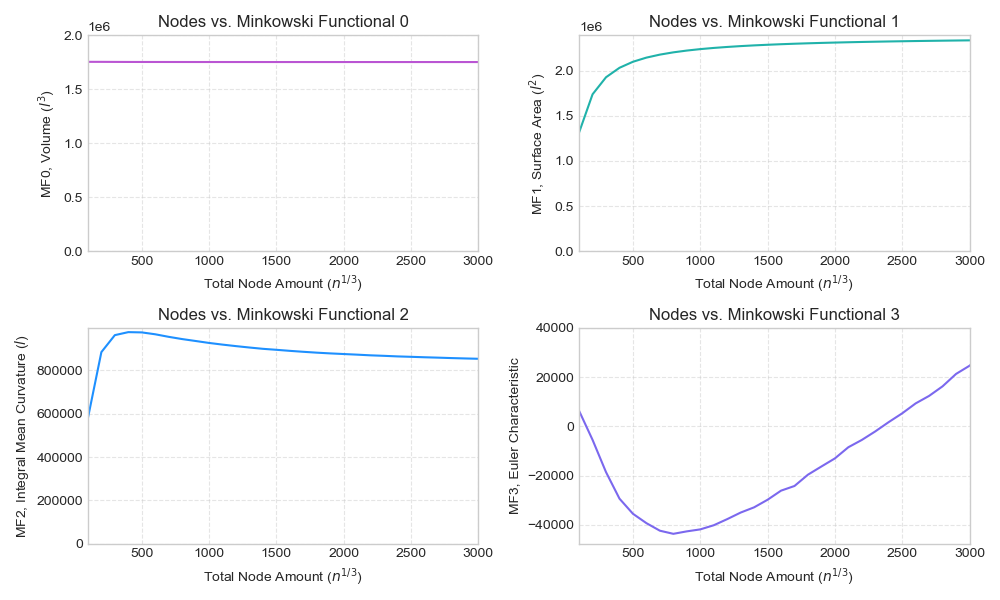
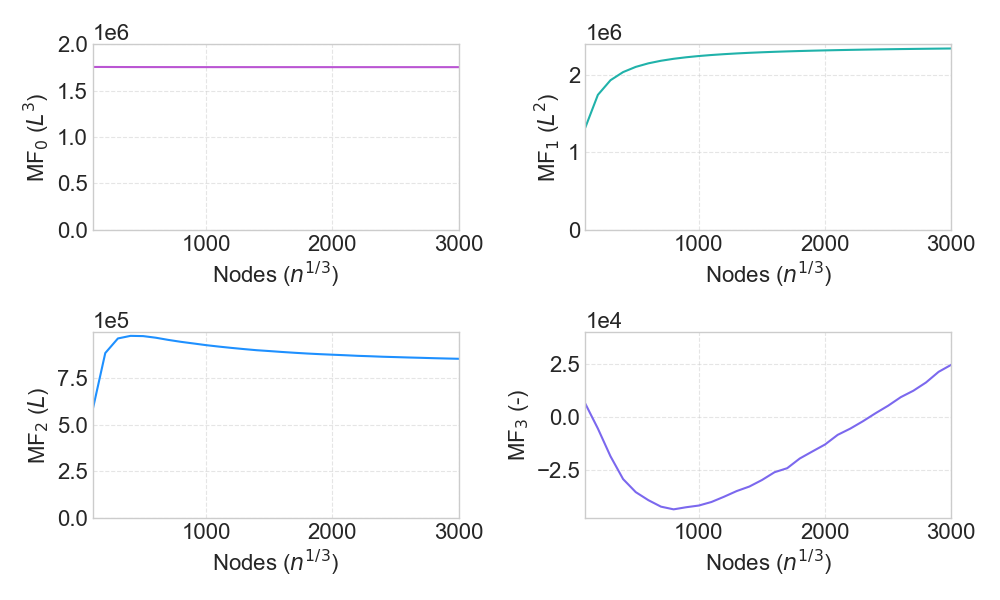
Fixed existing plots and added membrane analysis plots and code

diff --git a/plotNodes.py b/plotNodes.py
@@ -8,6 +8,7 @@ import glob
 import csv
 import re
 from numpy import prod
+plt.rcParams.update({'font.size': 16})
 ###Want to read in CSV data in a 2x2 shaped array
 
 filename = 'final_results/grid_independence_data_final.csv'
@@ -43,7 +44,7 @@ with open(filename, 'r') as file:
 
 ###Now we have a nodes list from n = n to n = nMax with steps of 100 and lists of each MF corresponding to node size
         
-flag_plotMF = True
+flag_plotMF = False
 if flag_plotMF:
     ###Plot nodes vs each MF, we need every MF to reach a rate of 0 in change per node count
     plt.style.use('seaborn-v0_8-whitegrid')
@@ -54,9 +55,9 @@ if flag_plotMF:
     plt.grid(True, linestyle='--', alpha=0.5)
     plt.xlim(100, 3000)
     plt.ylim(0,2.0e6)
-    plt.xlabel('Total Node Amount ($n^{1/3}$)')
-    plt.ylabel('MF0, Volume ($l^3$)')
-    plt.title('Nodes vs. Minkowski Functional 0')
+    plt.xlabel('Nodes ($n^{1/3}$)')
+    plt.ylabel('MF$_0$ ($L^3$)')
+    #plt.title('Nodes vs. Minkowski Functional 0')
 
     ###Subplot 2 TOP RIGHT
     plt.subplot(2,2,2)
@@ -64,31 +65,33 @@ if flag_plotMF:
     plt.grid(True, linestyle='--', alpha=0.5)
     plt.xlim(100, 3000)
     plt.ylim(bottom=0)
-    plt.xlabel('Total Node Amount ($n^{1/3}$)')
-    plt.ylabel('MF1, Surface Area ($l^2$)')
-    plt.title('Nodes vs. Minkowski Functional 1')
+    plt.xlabel('Nodes ($n^{1/3}$)')
+    plt.ylabel('MF$_1$ ($L^2$)')
+    #plt.title('Nodes vs. Minkowski Functional 1')
 
     ###Subplot 3 BOTTOM LEFT
     plt.subplot(2,2,3)
+    plt.ticklabel_format(axis='y', style='sci', scilimits=(0,0))
     plt.plot(nodes, mink2, color ='dodgerblue')
     plt.grid(True, linestyle='--', alpha=0.5)
     plt.xlim(100, 3000)
     plt.ylim(bottom=0)
-    plt.xlabel('Total Node Amount ($n^{1/3}$)')
-    plt.ylabel('MF2, Integral Mean Curvature ($l$)')
-    plt.title('Nodes vs. Minkowski Functional 2')
+    plt.xlabel('Nodes ($n^{1/3}$)')
+    plt.ylabel('MF$_2$ ($L$)')
+    #plt.title('Nodes vs. Minkowski Functional 2')
 
     ###Subplot 4 BOTTOM RIGHT
     plt.subplot(2,2,4)
+    plt.ticklabel_format(axis='y', style='sci', scilimits=(0,0))
     plt.plot(nodes, mink3, color ='mediumslateblue')
     plt.grid(True, linestyle='--', alpha=0.5)
     plt.xlim(100, 3000)
-    plt.xlabel('Total Node Amount ($n^{1/3}$)')
-    plt.ylabel('MF3, Euler Characteristic')
-    plt.title('Nodes vs. Minkowski Functional 3')
+    plt.xlabel('Nodes ($n^{1/3}$)')
+    plt.ylabel('MF$_3$ (-)')
+    #plt.title('Nodes vs. Minkowski Functional 3')
 
     ###Save figure and prevent clipping
-    plt.tight_layout()  
+    plt.tight_layout()
     plt.savefig('plots/nodes_vs_mink.png')
 
 ###We want to plot relative change (derivative) of the vs. the node amount
@@ -111,7 +114,7 @@ for i in range(list_lengths):
     value = dif[i]/mink0[i]
     dm0.append(value)
     i = i+1
-dmink0 = [prod(x) for x in dm0]
+dmink0 = [abs(prod(x)*100) for x in dm0]
 #relative change in m1
 i = 0
 dm1 = []
@@ -120,7 +123,7 @@ for i in range(list_lengths):
     value = dif[i]/mink0[i]
     dm1.append(value)
     i = i+1
-dmink1 = [prod(x) for x in dm1]
+dmink1 = [abs(prod(x)*100) for x in dm1]
 #relative change in m2
 i = 0
 dm2 = []
@@ -129,7 +132,7 @@ for i in range(list_lengths):
     value = dif[i]/mink0[i]
     dm2.append(value)
     i = i+1
-dmink2 = [prod(x) for x in dm2]
+dmink2 = [abs(prod(x)*100) for x in dm2]
 #relative change in m3
 i = 0
 dm3 = []
@@ -138,8 +141,7 @@ for i in range(list_lengths):
     value = dif[i]/mink0[i]
     dm3.append(value)
     i = i+1
-dmink3 = [prod(x) for x in dm3]
-
+dmink3 = [abs(prod(x)*100) for x in dm3]
 
 flag_plot_relative = True
 if flag_plot_relative:
@@ -147,36 +149,39 @@ if flag_plot_relative:
     plt.figure(figsize=(10,6)) #size is in inches
     #Relative Change Subplot 1 Top Left
     plt.subplot(2,2,1)
-    plt.title('Relative Change in 0th Minkowski Functional')
-    plt.plot(nodes_approx, dmink0, color='mediumorchid')
+    #plt.title('Relative Change in 0th Minkowski Functional')
+    plt.semilogy(nodes_approx, dmink0, color='mediumorchid')
     plt.grid(True, linestyle='--', alpha=0.5)
-    plt.xlabel('Total Nodes ($n^{1/3}$)')
-    plt.ylabel('Relative Change')
+    plt.xlabel('Nodes ($n^{1/3}$)')
+    plt.ylabel('MF$_0$ Percent Change')
 
 
     #Relative Change Subplot 2 Top Right
     plt.subplot(2,2,2)
-    plt.title('Relative Change in 1st Minkowski Functional')
-    plt.plot(nodes_approx, dmink1, color='lightseagreen')
+    #plt.title('Relative Change in 1st Minkowski Functional')
+    plt.semilogy(nodes_approx, dmink1, color='lightseagreen')
     plt.grid(True, linestyle='--', alpha=0.5)
-    plt.xlabel('Total Nodes ($n^{1/3}$)')
-    plt.ylabel('Relative Change')
+    plt.xlabel('Nodes ($n^{1/3}$)')
+    plt.ylabel('MF$_1$ Percent Change')
 
     #Relative Change Subplot 3 Bottom Left
     plt.subplot(2,2,3)
-    plt.title('Relative Change in 2nd Minkowski Functional')
-    plt.plot(nodes_approx, dmink2, color='dodgerblue')
+    plt.ticklabel_format(axis='y', style='sci', scilimits=(0,0))
+    #plt.title('Relative Change in 2nd Minkowski Functional')
+    plt.semilogy(nodes_approx, dmink2, color='dodgerblue')
     plt.grid(True, linestyle='--', alpha=0.5)
-    plt.xlabel('Total Nodes ($n^{1/3}$)')
-    plt.ylabel('Relative Change')
+    plt.xlabel('Nodes ($n^{1/3}$)')
+    plt.ylabel('MF$_2$ Percent Change')
 
     #Relative Change Subplot 4 Bottom Right
     plt.subplot(2,2,4)
-    plt.title('Relative Change in 3rd Minkowski Functional')
-    plt.plot(nodes_approx, dmink3, color='mediumslateblue')
+    plt.ticklabel_format(axis='y', style='sci', scilimits=(0,0))
+    #plt.title('Relative Change in 3rd Minkowski Functional')
+    plt.semilogy(nodes_approx, dmink3, color='mediumslateblue')
     plt.grid(True, linestyle='--', alpha=0.5)
-    plt.xlabel('Total Nodes ($n^{1/3}$)')
-    plt.ylabel('Relative Change')
+    plt.xlabel('Nodes ($n^{1/3}$)')
+    plt.ylabel('MF$_3$ Percent Change')
+    plt.ylim(0,1)
 
     plt.tight_layout()
     plt.savefig('plots/plotMF_relative.png')

diff --git a/plotmembraneAnalysis.py b/plotmembraneAnalysis.py
@@ -1,0 +1,141 @@
+import numpy as np
+import matplotlib.pyplot as plt
+import re 
+import glob
+import csv 
+
+plt.rcParams.update({'font.size': 16})
+
+file_in = "final_results/membrane_results.csv"
+
+#Define a regular expression pattern to extract numeric values including the identifier
+pattern = re.compile(r'(\d+)\s+\(([\d.,\s]+)\)')
+
+nodes = []
+mink0 = []
+mink1 = []
+mink2 = []
+mink3 = []
+
+with open(file_in, 'r') as file:
+    for line in file:
+        # Split the line into identifier and tuple components
+        parts = line.split()
+
+        # Extract identifier and numeric values
+        #node = int(parts[0])
+        MF0 = [float(x) for x in parts[1][1:-1].split(',')]
+        MF1 = [float(x) for x in parts[2][0:-1].split(',')]
+        MF2 = [float(x) for x in parts[3][0:-1].split(',')]
+        MF3 = [float(x) for x in parts[4][0:-1].split(',')]
+
+        # Append values to the lists
+        #nodes.append(node)
+        mink0.append(MF0)
+        mink1.append(MF1)
+        mink2.append(MF2)
+        mink3.append(MF3)
+
+###Create sim_time list for plot
+sim_time = []
+i = 0
+value = 0.01
+for i in range(0,200):
+    sim_time.append(value)
+    value = value+0.01
+    i = i+1
+
+minkowskis = 4
+mink_list = [mink0,mink1,mink2,mink3]
+
+###Now plot 4 graphs of sim_time vs. MF0 - MF3
+
+flag_plot_MFvsSim = False
+if flag_plot_MFvsSim:
+    colors = ['mediumorchid','lightseagreen','dodgerblue','mediumslateblue']
+    plot_num = 1
+    plt.style.use('seaborn-v0_8-whitegrid')
+    plt.figure(figsize=(10,6))
+    plt.grid(True,linestyle='--',alpha=0.75)
+    for x in range(0,minkowskis):
+        plt.subplot(2,2,plot_num)
+        plt.plot(sim_time,mink_list[x],'-',color=colors[x])
+        plt.xlabel('Simulation Time (nanoseconds)')
+        plt.ylabel(f'MF$_{x}$')
+        plt.ticklabel_format(axis='y', style='sci', scilimits=(0,0))
+        plt.grid(True,linestyle='--',alpha=0.75)
+        if x == 3:
+            plt.ylim(0, 1e5)
+        elif x == 2:
+            plt.ylim(0,1e6)
+        else:
+            plt.ylim(0, 2.5e6)
+        x = x+1
+        plot_num = plot_num + 1
+    #plt.show()
+    plt.tight_layout()
+    plt.savefig('plots/MF_vs_simtime')
+
+
+means = []
+ ###Need to have new lists of MF variation from mean
+for x in range(0,minkowskis):
+        value = np.mean(mink_list[x])
+        means.append(value)
+
+###Now subtract each mink list values from their respective means
+mink0_diff = mink0 - means[0]
+mink1_diff = mink1 - means[1]
+mink2_diff = mink2 - means[2]
+mink3_diff = mink3 - means[3]
+
+
+flag_histogram_MF_mean = False
+if flag_histogram_MF_mean:
+     ###We can now plot 4 separate histograms to find variance of each MF to their mean
+    colors = ['mediumorchid','lightseagreen','dodgerblue','mediumslateblue']
+    plt.style.use('seaborn-v0_8-whitegrid')
+    plt.figure(figsize=(12,8))
+    plt.grid(True,linestyle='--',alpha=1)
+    ###Top Left Subplot 1
+    plt.subplot(2,2,1)
+    plt.hist(mink0_diff,bins=15,color=colors[0],edgecolor='black')
+    plt.xlim(-2.0e4,2.0e4)
+    plt.xlabel('MF$_0$ Difference from Mean')
+    plt.ylabel('Frequency')
+    plt.ticklabel_format(axis='x', style='sci', scilimits=(0,0))
+    
+    ###Top Right Subplot 2
+    plt.subplot(2,2,2)
+    plt.hist(mink1_diff,bins=15,color=colors[1],edgecolor='black')
+    plt.xlim(-1.5e4,1.5e4)
+    plt.xlabel('MF$_1$ Difference from Mean')
+    plt.ylabel('Frequency')
+    plt.ticklabel_format(axis='x', style='sci', scilimits=(0,0))
+
+    ###Bot Left Subplot 3
+    plt.subplot(2,2,3)
+    plt.hist(mink2_diff,bins=15,color=colors[2],edgecolor='black')
+    plt.xlim(-6.0e4,6.0e4)
+    plt.xlabel('MF$_2$ Difference from Mean')
+    plt.ylabel('Frequency')
+    plt.ticklabel_format(axis='x', style='sci', scilimits=(0,0))
+
+    ###Bot Right Subplot 4
+    plt.subplot(2,2,4)
+    plt.hist(mink3_diff,bins=20, color=colors[3],edgecolor='black')
+    plt.xlim(-6e3,6e3)
+    plt.xlabel('MF$_3$ Difference from Mean')
+    plt.ylabel('Frequency')
+    plt.ticklabel_format(axis='x', style='sci', scilimits=(0,0))
+
+    #plt.show()
+    plt.tight_layout()
+    plt.savefig('plots/MF_histograms.png')
+
+###We have means so we can calculate the standard deviation of each MF data
+mink0_sigma = np.std(mink0)
+mink1_sigma = np.std(mink1)
+mink2_sigma = np.std(mink2)
+mink3_sigma = np.std(mink3)
+    

diff --git a/process_verlet.py b/process_verlet.py
@@ -1,5 +1,6 @@
 import numpy as np
 import matplotlib.pyplot as plt
+plt.rcParams.update({'font.size': 16})
 
 file_in = "final_results/verlet_independence_4.csv"
 
@@ -7,7 +8,7 @@ data = np.loadtxt(file_in)
 num_entries = len(data)
 nodes_per_verlet = np.zeros(num_entries)
 verlets = np.zeros(num_entries)
-proc = 4**3
+proc = 4**3 ###Must change first integer to match the cube root of the amount of processes being ran
 
 ###Want to calculate nodes per verlet
 for n_row,row in enumerate(data): ###Loops through rows
@@ -55,8 +56,8 @@ flag_plot = True
 if flag_plot:
     #Initialize Plot 1
     plt.figure(figsize=(8,6))
-    plt.title(f'Nodes in Each Verlet Domain vs. Time Elapsed ({proc} Processors)')
-    plt.xlabel('Total Nodes in Each Verlet Domain ($n^3$)')
+    #plt.title(f'Nodes in Each Verlet Domain vs. Time Elapsed ({proc} Processors)')
+    plt.xlabel('Nodes in Verlet Domain ($n^3$)')
     plt.ylabel('Time Elapsed (seconds)')
     plt.grid(True,linestyle='--',alpha=0.75)
 
@@ -75,14 +76,14 @@ if flag_plot:
     plt.xlim(0,80) ###Limited so we can see the minimum points for each line
     plt.ylim(0,60)
     plt.plot(nodes_min,minimum_times,'o',color='royalblue',alpha=1.0,label='minimum points')
-    plt.legend()
+    plt.legend(prop={'size':12},facecolor='white',framealpha=1)
     #plt.show()
     plt.savefig(f'plots/nodes_per_verlet_elapsedtime_{proc}')
 
 
     #Initialize Plot 2
     plt.figure(figsize=(8,6))
-    plt.title(f'Nodes in Each Verlet Domain vs. Time Elapsed ({proc} Processors)')
+    #plt.title(f'Nodes in Each Verlet Domain vs. Time Elapsed ({proc} Processors)')
     plt.xlabel('Total Verlet Domains ($v^3$)')
     plt.ylabel('Time Elapsed (seconds)')
     plt.grid(True,linestyle='--',alpha=0.75)
@@ -101,7 +102,7 @@ if flag_plot:
         x = x+1
     #highlight minimum points
     plt.plot(verlet_min,minimum_times,'o',color='royalblue',label='minimum points',alpha=1.0)
-    plt.legend()
+    plt.legend(prop={'size':12},facecolor='white',framealpha=1)
     plt.xlim(0,25) ###Limited so we can see the minimum points for each line
     if proc == 3**3:
         plt.ylim(0,10**3)
